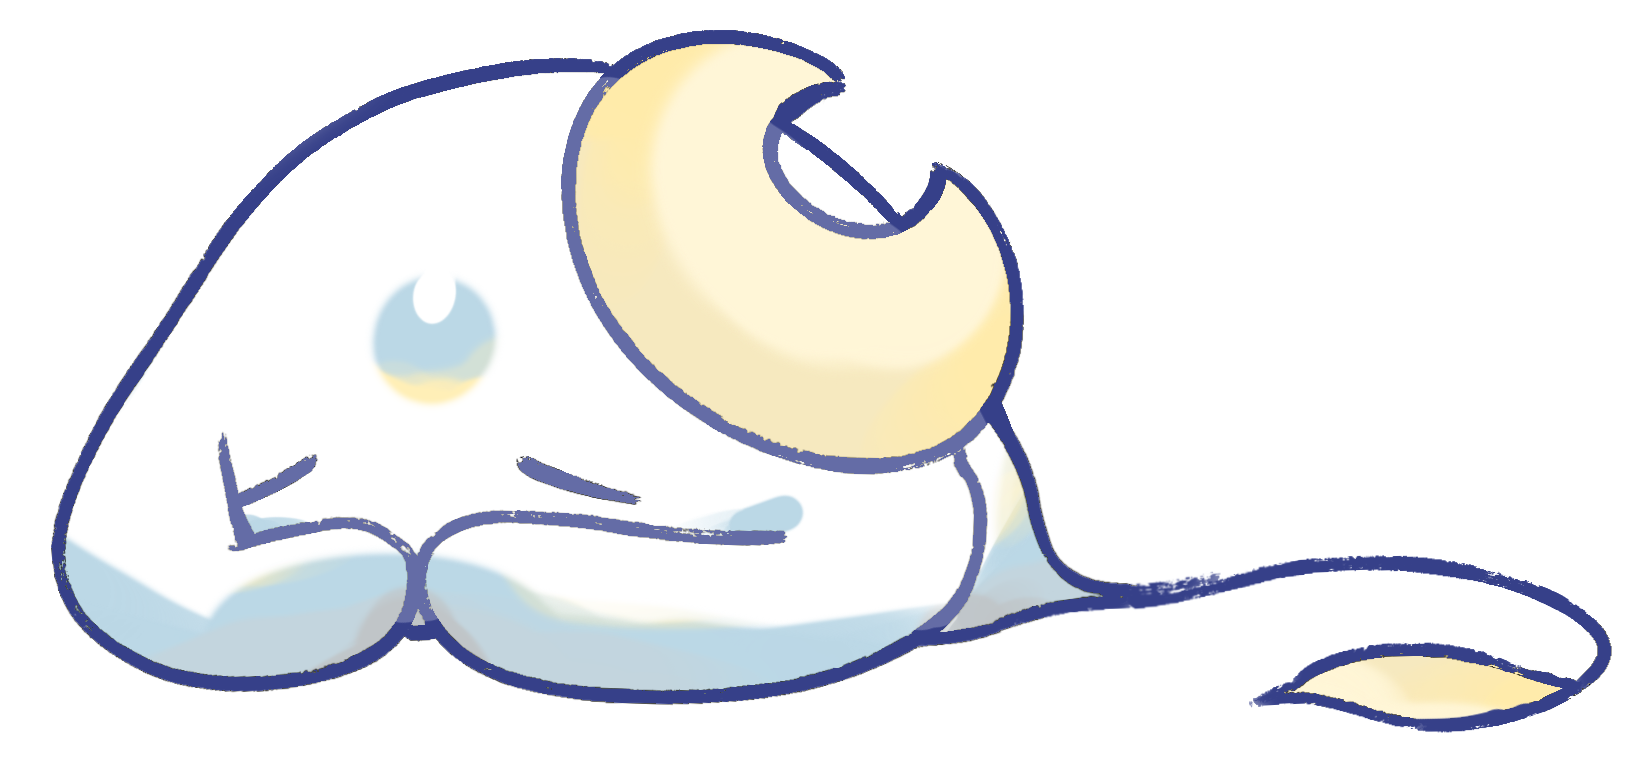
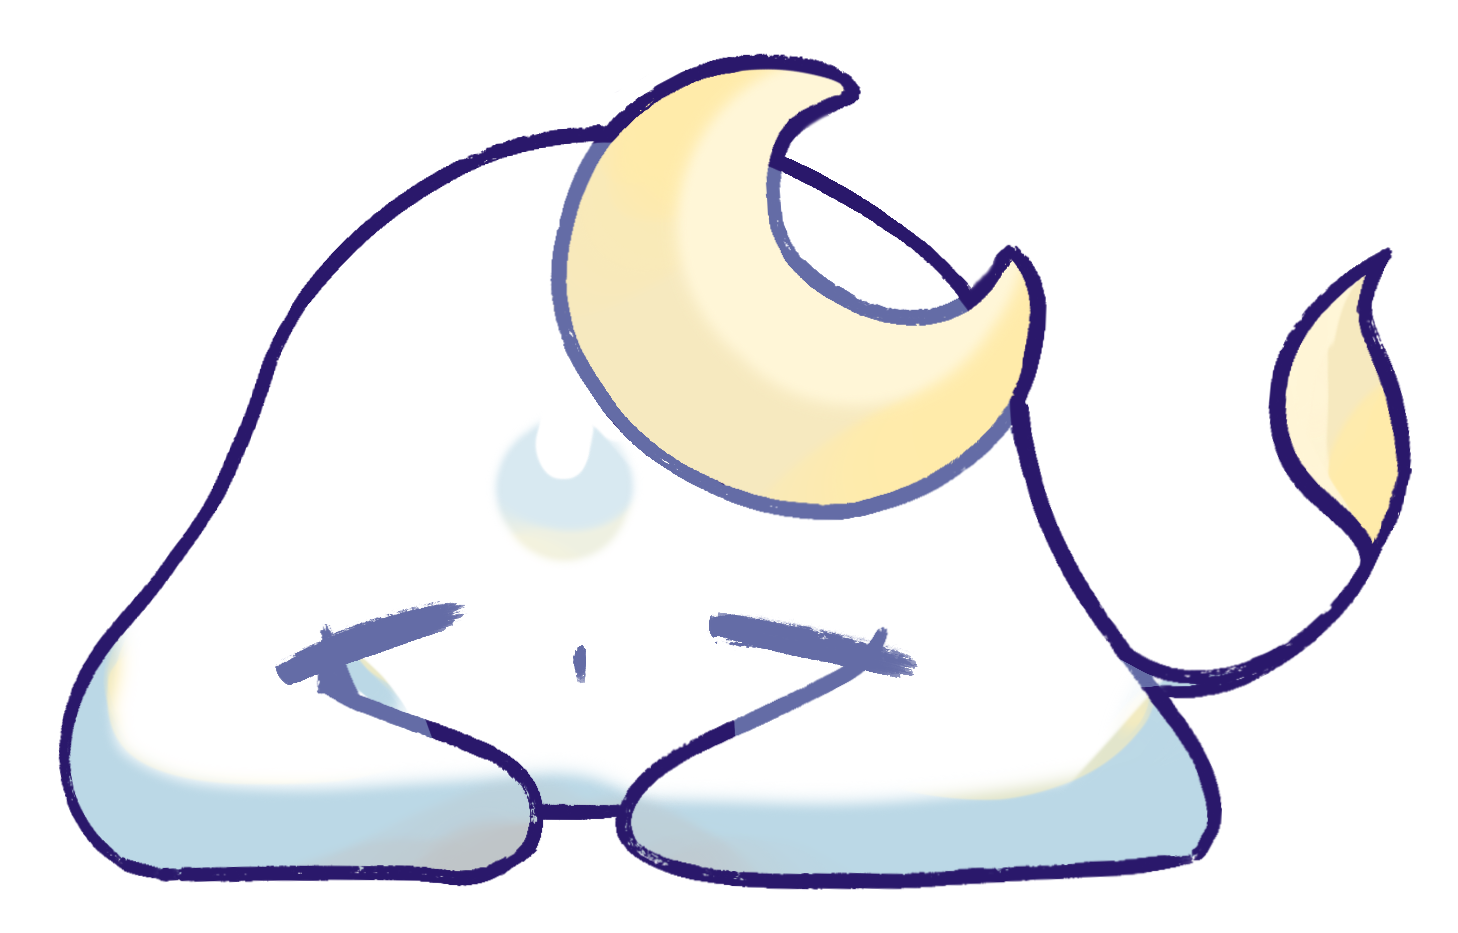
Keep Moon Buddy extension sprites on health stages.
Ignore legacy sleepbunny/angrybunny buddyFile values and package stage art from assets so the overlay matches the website.

diff --git a/overlay.js b/overlay.js
@@ -1,6 +1,6 @@
 (() => {
-  // Bump so re-inject replaces older overlay copies that crashed on chrome.storage.
-  const OVERLAY_VERSION = 11;
+  // Bump so re-inject replaces older overlay copies (mood bunny PNGs, etc.).
+  const OVERLAY_VERSION = 12;
   if (window.__focusBuddyOverlayVersion === OVERLAY_VERSION) return;
   window.__focusBuddyOverlayVersion = OVERLAY_VERSION;
   window.__focusBuddyOverlayInit = true;
@@ -38,7 +38,7 @@
   }
 
   /**
-   * Moon Buddy stages 1–5 (even 20-point bands). Stage 1 = healthiest.
+   * Moon Buddy stages 1–5 (even 20-point bands). Matches website.
    * @param {number} health
    * @returns {string}
    */
@@ -54,14 +54,29 @@
     return "moon5.png";
   }
 
-  function resolveBuddyFile(payload) {
-    if (payload?.buddyFile && typeof payload.buddyFile === "string") {
-      return payload.buddyFile;
+  /**
+   * Accept only stage sprites. Legacy sleepbunny/angrybunny must not win over health stages.
+   * @param {string|null|undefined} file
+   * @param {"cat"|"sleepbunny"} characterId
+   * @returns {boolean}
+   */
+  function isStageBuddyFile(file, characterId) {
+    if (typeof file !== "string" || !file) return false;
+    const name = file.split("/").pop() || file;
+    if (characterId === "cat") {
+      return name === "cat.png" || /^cat[2-7]\.png$/i.test(name);
     }
+    return /^moon[1-5]\.png$/i.test(name);
+  }
+
+  function resolveBuddyFile(payload) {
     const characterId =
       payload?.characterId === "cat" ? "cat" : "sleepbunny";
     const health = Number(payload?.characterHealth);
     const safeHealth = Number.isFinite(health) ? health : 95;
+    if (isStageBuddyFile(payload?.buddyFile, characterId)) {
+      return String(payload.buddyFile).split("/").pop();
+    }
     if (characterId === "cat") return catFileForHealth(safeHealth);
     return moonFileForHealth(safeHealth);
   }
@@ -132,10 +147,7 @@
     const health = Number(payload?.characterHealth);
     const live = Boolean(payload?.liveSessionActive);
     const safeHealth = Number.isFinite(health) ? health : 95;
-    const file =
-      typeof payload?.buddyFile === "string"
-        ? payload.buddyFile
-        : resolveBuddyFile(payload);
+    const file = resolveBuddyFile(payload);
     try {
       window.postMessage(
         {

diff --git a/popup.js b/popup.js
@@ -132,16 +132,26 @@ function getEntryStatus(entry) {
   return null;
 }
 
+function isStageBuddyFile(file, characterId) {
+  if (typeof file !== "string" || !file) return false;
+  const name = file.split("/").pop() || file;
+  if (characterId === "cat") {
+    return name === "cat.png" || /^cat[2-7]\.png$/i.test(name);
+  }
+  return /^moon[1-5]\.png$/i.test(name);
+}
+
 function applyBuddyVisual(visual) {
   if (!characterImg || !visual) return;
   const mood = visual.mood === "distracted" ? "distracted" : "on-task";
   const isOnTask = mood !== "distracted";
+  const characterId = visual.characterId === "cat" ? "cat" : "sleepbunny";
   characterImg.classList.remove("on-task", "distracted");
   characterImg.classList.add(isOnTask ? "on-task" : "distracted");
   characterImg.setAttribute("aria-label", isOnTask ? "on-task" : "distracted");
   characterImg.alt = isOnTask ? "on-task" : "distracted";
-  if (visual.buddyFile) {
-    characterImg.src = visual.buddyFile;
+  if (isStageBuddyFile(visual.buddyFile, characterId)) {
+    characterImg.src = String(visual.buddyFile).split("/").pop();
   }
 }
 
@@ -152,11 +162,12 @@ function refreshBuddyVisual() {
 }
 
 function setCharacterMood(status) {
-  // Mood-only fallback while waiting for the full visual resolve.
-  applyBuddyVisual({
-    mood: status === "distracted" ? "distracted" : "on-task",
-    buddyFile: "moon1.png",
-  });
+  // Mood class only — sprite always comes from health stages via GET_BUDDY_VISUAL.
+  if (characterImg) {
+    const isOnTask = status !== "distracted";
+    characterImg.classList.remove("on-task", "distracted");
+    characterImg.classList.add(isOnTask ? "on-task" : "distracted");
+  }
   refreshBuddyVisual();
 }
 
